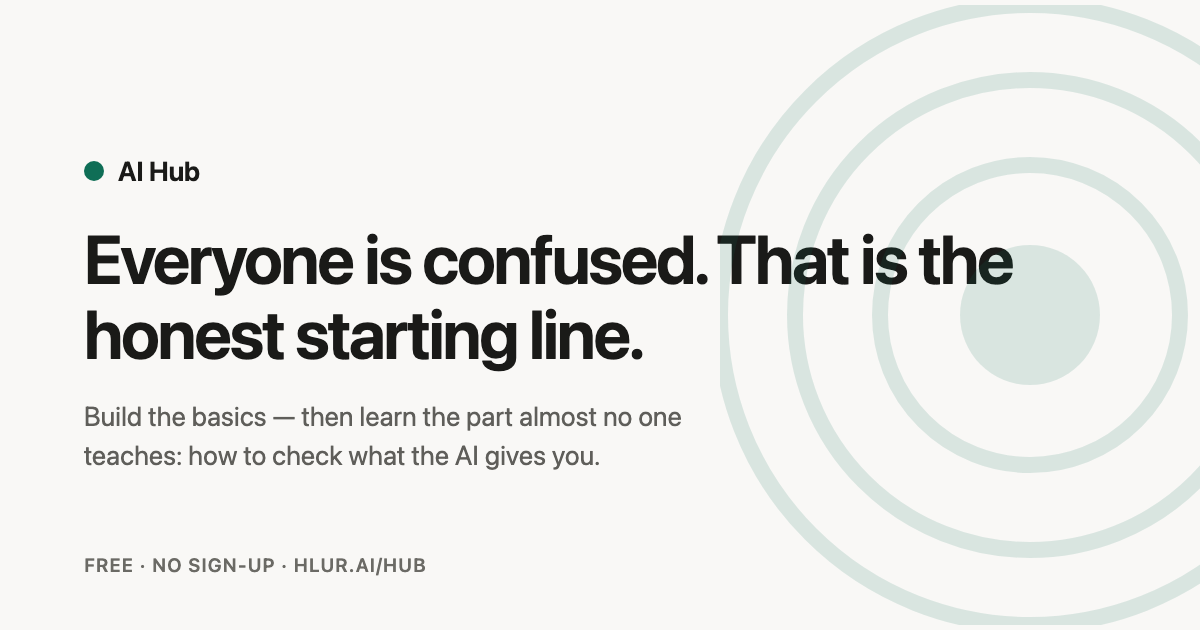
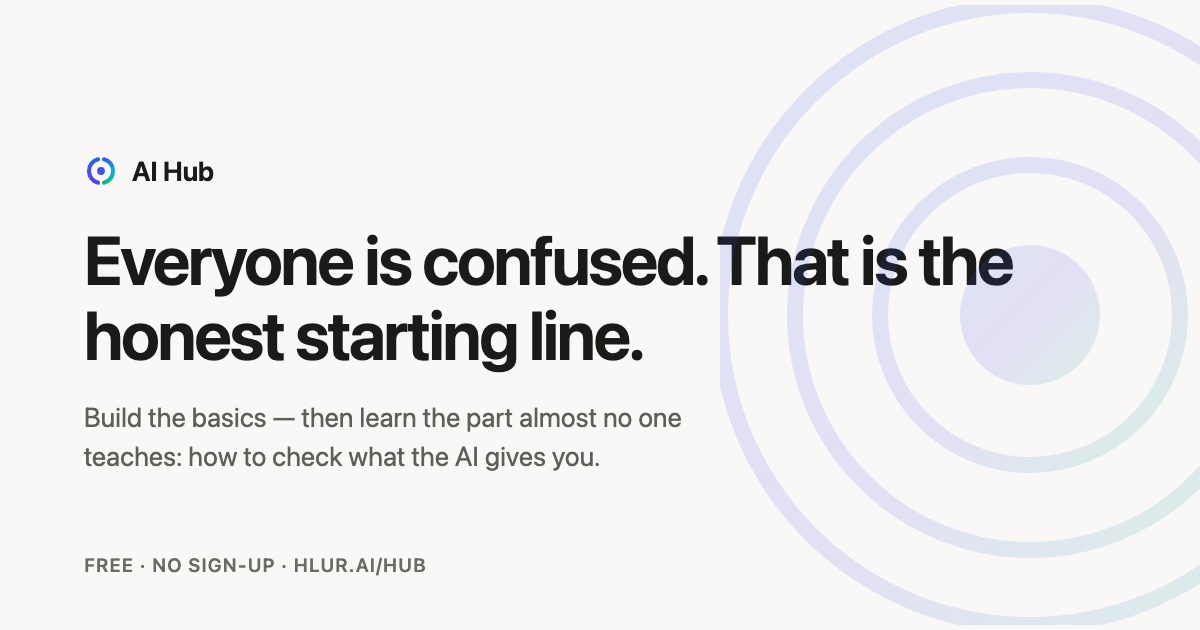
Social card: wear the mark, not the old green dot
The card that fronts /hub everywhere it is shared — including the "Then, how to
check its work" card on the hlur.ai homepage — still showed the pre-mark identity:
a flat #0f6e56 dot beside "AI Hub" and four flat green rings. The site started
wearing the orbit mark and the card never followed, so the first thing anyone saw
looked like somewhere else.

The dot is now the orbit mark itself, and the rings carry its gradient
(#2563EB -> #5B3DF5 -> #10B981). Legitimate here: the rings are decoration at .13
opacity and carry no text, so the display stops' contrast is not in play — unlike
the homepage pill, where they would have been.

Regenerated through the existing tools/make-og.js rather than by hand, so the
image stays reproducible from source.

Kept light rather than copying /baseline's dark card: hub's own pages are light,
and the card should look like where it leads.

selfcheck --full green: 988 static + 1706 rendered.

diff --git a/tools/make-og.js b/tools/make-og.js
@@ -41,7 +41,10 @@ const HTML = `<!doctype html><meta charset="utf-8"><style>
   }
   .rings { position: absolute; right: -140px; top: 50%; transform: translateY(-50%); opacity: .13; }
   .brand { display: flex; align-items: center; gap: 14px; margin-bottom: 34px; }
-  .dot { width: 20px; height: 20px; border-radius: 50%; background: #0f6e56; }
+  /* Was a flat #0f6e56 dot — the pre-mark identity, still on the card long after
+     the site itself started wearing the orbit mark. The card is the first thing
+     anyone sees when the link is shared, so it should look like where it leads. */
+  .mark { width: 34px; height: 34px; flex: 0 0 auto; }
   .brand span { font-size: 27px; font-weight: 650; letter-spacing: -0.01em; }
   h1 { font-size: 68px; line-height: 1.1; letter-spacing: -0.03em; font-weight: 640; max-width: 15.5em; }
   p { font-size: 27px; line-height: 1.45; color: #5f5e5a; margin-top: 26px; max-width: 24em; }
@@ -51,12 +54,24 @@ const HTML = `<!doctype html><meta charset="utf-8"><style>
   }
 </style>
 <svg class="rings" width="620" height="620" viewBox="0 0 620 620" aria-hidden="true">
-  <circle cx="310" cy="310" r="70"  fill="#0f6e56"/>
-  <circle cx="310" cy="310" r="150" fill="none" stroke="#0f6e56" stroke-width="16"/>
-  <circle cx="310" cy="310" r="235" fill="none" stroke="#0f6e56" stroke-width="16"/>
-  <circle cx="310" cy="310" r="310" fill="none" stroke="#0f6e56" stroke-width="16"/>
+  <defs><linearGradient id="rg" x1="0" y1="0" x2="1" y2="1">
+    <stop offset="0" stop-color="#2563EB"/><stop offset=".5" stop-color="#5B3DF5"/><stop offset="1" stop-color="#10B981"/>
+  </linearGradient></defs>
+  <circle cx="310" cy="310" r="70"  fill="url(#rg)"/>
+  <circle cx="310" cy="310" r="150" fill="none" stroke="url(#rg)" stroke-width="16"/>
+  <circle cx="310" cy="310" r="235" fill="none" stroke="url(#rg)" stroke-width="16"/>
+  <circle cx="310" cy="310" r="310" fill="none" stroke="url(#rg)" stroke-width="16"/>
 </svg>
-<div class="brand"><span class="dot"></span><span>AI Hub</span></div>
+<div class="brand">
+  <svg class="mark" viewBox="0 0 96 96" aria-hidden="true"><defs>
+    <linearGradient id="nm-l" x1="0" y1="0" x2="0" y2="1"><stop offset="0" stop-color="#2563EB"/><stop offset="1" stop-color="#5B3DF5"/></linearGradient>
+    <linearGradient id="nm-r" x1="0" y1="0" x2="0" y2="1"><stop offset="0" stop-color="#2563EB"/><stop offset=".5" stop-color="#06B6D4"/><stop offset="1" stop-color="#10B981"/></linearGradient>
+    <linearGradient id="nm-d" x1="0" y1="0" x2="1" y2="1"><stop offset="0" stop-color="#5B3DF5"/><stop offset="1" stop-color="#2563EB"/></linearGradient></defs>
+    <path d="M56.2 15 A34 34 0 0 1 56.2 81" fill="none" stroke="url(#nm-r)" stroke-width="11.5" stroke-linecap="round"/>
+    <path d="M39.8 81 A34 34 0 0 1 39.8 15" fill="none" stroke="url(#nm-l)" stroke-width="11.5" stroke-linecap="round"/>
+    <circle cx="48" cy="48" r="11" fill="url(#nm-d)"/></svg>
+  <span>AI Hub</span>
+</div>
 <h1>Everyone is confused. That is the honest starting line.</h1>
 <p>Build the basics — then learn the part almost no one teaches: how to check what the AI gives you.</p>
 <div class="foot">Free &middot; No sign-up &middot; ${cfg.site.name === 'AI Hub' ? 'hlur.ai/hub' : ''}</div>
